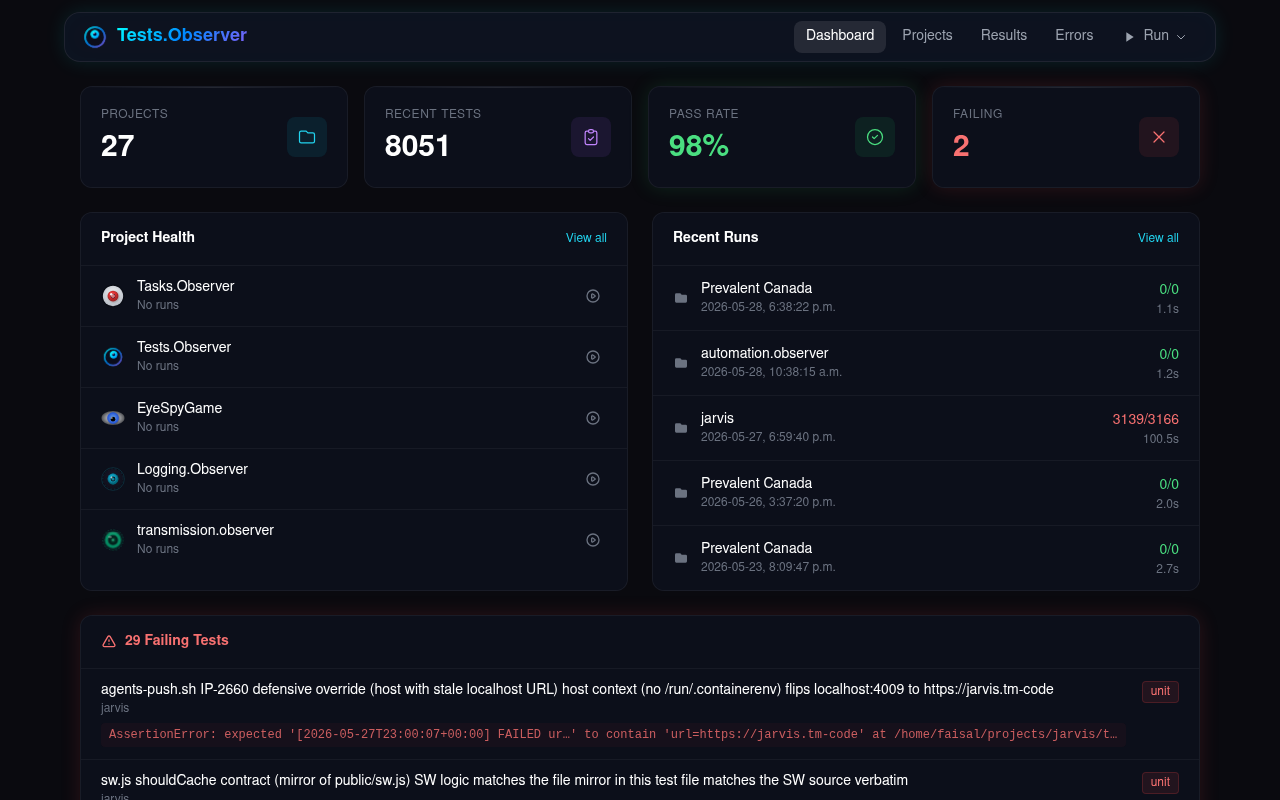
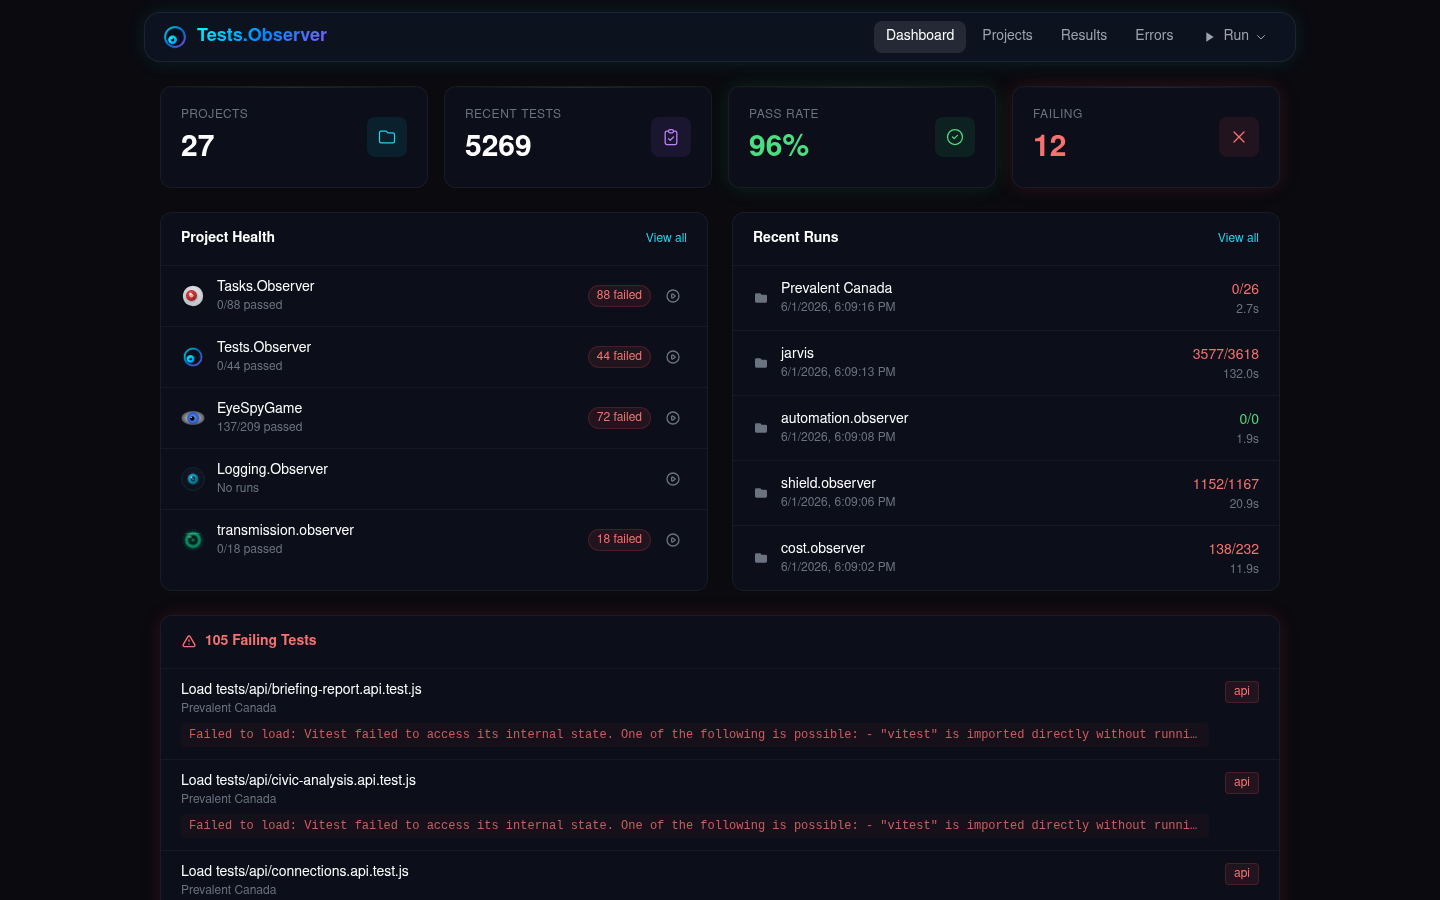
Re-capture tests.observer screenshots in dark mode with full data load
- dashboard now shows populated KPIs, project health grid, recent runs,
  and 105-item failing-tests list (previously sparse / pre-data)
- projects refreshed with current stack tags + last-run pass counts
- new results capture shows pass/fail rows with inline stack traces
- new errors capture replaces stale errors-setup / client-errors pair
- carousel order: dashboard, projects, results, errors

diff --git a/docs/_posts/2026-01-29-Tests-Observer-One-Test-Runner-Every-Repo.md b/docs/_posts/2026-01-29-Tests-Observer-One-Test-Runner-Every-Repo.md
@@ -8,13 +8,13 @@ image: https://techmeka.com/blog/images/tests-observer-hero.png
 published: true
 screenshots:
   - src: /blog/images/screenshots/tests-observer/dashboard.png
-    caption: Portfolio dashboard — pass rate, recent runs, and failing tests across every repo
+    caption: Portfolio dashboard — KPIs, project health grid, recent runs, and the live failing-tests list across every repo
   - src: /blog/images/screenshots/tests-observer/projects.png
-    caption: Registered projects with auto-detected stack tags and one-click run buttons
-  - src: /blog/images/screenshots/tests-observer/errors-setup.png
-    caption: Drop-in script tag — capture client-side errors, breadcrumbs, and perf from any site
-  - src: /blog/images/screenshots/tests-observer/client-errors.png
-    caption: Errors panel — browser errors, console logs, and failed requests aggregated per project
+    caption: Registered projects with auto-detected stack tags, last-run pass counts, and one-click run buttons
+  - src: /blog/images/screenshots/tests-observer/results.png
+    caption: Test results — every run with pass/fail status, duration, and inline stack traces for failures
+  - src: /blog/images/screenshots/tests-observer/errors.png
+    caption: Client errors panel — browser errors, console logs, and failed requests aggregated per project
 ---
 
 > What if every test result in your org — human or AI-triggered — showed up on the task that produced it?
